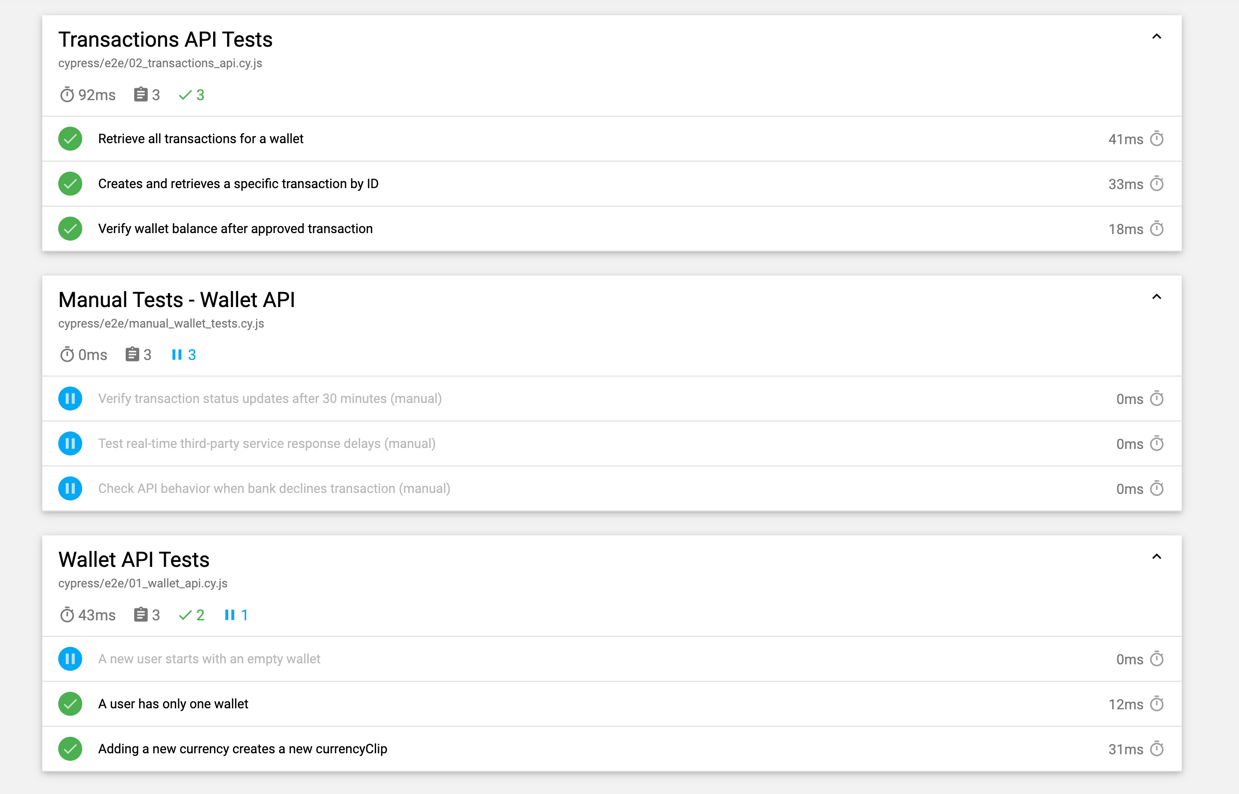
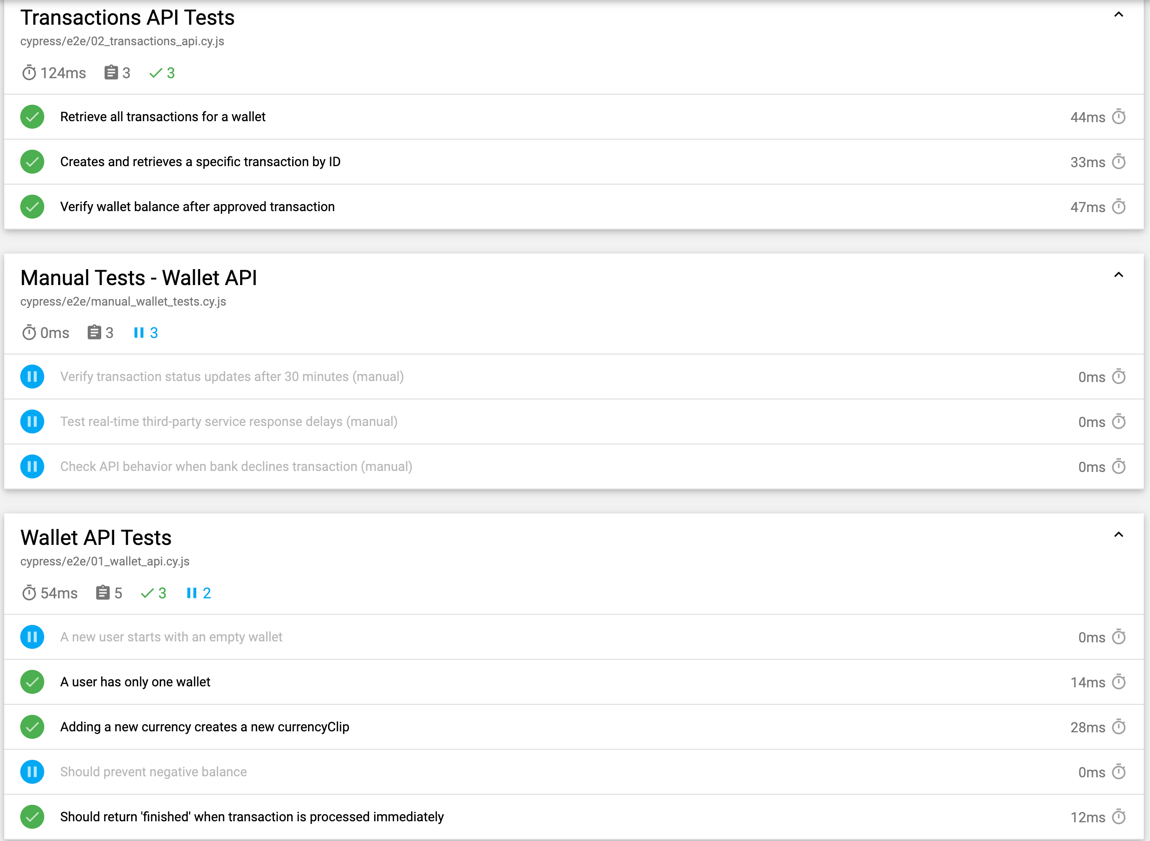
update with test plan

diff --git a/cypress/e2e/01_wallet_api.cy.js b/cypress/e2e/01_wallet_api.cy.js
@@ -3,13 +3,13 @@ describe("Wallet API Tests", () => {
     let walletId;
     let userId;
     before(() => {
-        cy.loginAs("newUser").then(({ token, userId: id }) => {
+        cy.loginAs("newUser").then(({token, userId: id}) => {
             authToken = token; // Store auth token
             userId = id;
             return cy.request({
                 method: "GET",
                 url: `/user/info/${userId}`,
-                headers: { Authorization: `Bearer ${authToken}` }
+                headers: {Authorization: `Bearer ${authToken}`}
             });
         }).then((response) => {
             expect(response.status).to.eq(200);
@@ -21,7 +21,7 @@ describe("Wallet API Tests", () => {
         cy.request({
             method: "GET",
             url: `/wallet/${walletId}`,
-            headers: { Authorization: `Bearer ${authToken}` }
+            headers: {Authorization: `Bearer ${authToken}`}
         }).then((response) => {
             expect(response.status).to.eq(200);
             expect(response.body.currencyClips).to.be.an("array");
@@ -32,7 +32,7 @@ describe("Wallet API Tests", () => {
         cy.request({
             method: "GET",
             url: `/user/info/${userId}`,
-            headers: { Authorization: `Bearer ${authToken}` }
+            headers: {Authorization: `Bearer ${authToken}`}
         }).then((response) => {
             expect(response.status).to.eq(200);
             expect(response.body.walletId).to.eq(walletId);
@@ -43,8 +43,8 @@ describe("Wallet API Tests", () => {
         cy.request({
             method: "POST",
             url: `/wallet/${walletId}/transaction`,
-            headers: { Authorization: `Bearer ${authToken}` },
-            body: { currency: "EUR", amount: 50 }
+            headers: {Authorization: `Bearer ${authToken}`},
+            body: {currency: "EUR", amount: 50}
         }).then((response) => {
             expect(response.status).to.eq(200);
             expect(response.body).to.have.property("transactionId");
@@ -57,11 +57,44 @@ describe("Wallet API Tests", () => {
         cy.request({
             method: "GET",
             url: `/wallet/${walletId}`,
-            headers: { Authorization: `Bearer ${authToken}` }
+            headers: {Authorization: `Bearer ${authToken}`}
         }).then((response) => {
             expect(response.status).to.eq(200);
             const currencies = response.body.currencyClips.map(c => c.currency);
             expect(currencies).to.include("EUR");
         });
     });
+
+    it.skip("Should prevent negative balance", () => {
+        cy.request({
+            method: "POST",
+            url: `/wallet/${walletId}/transaction`,
+            headers: {Authorization: `Bearer ${authToken}`},
+            body: {
+                amount: -500000, // More than available balance
+                currency: "EUR",
+                type: "debit",
+            },
+            failOnStatusCode: false,
+        }).then((response) => {
+            expect(response.status).to.eq(400); // Assuming API returns 400 Bad Request
+        });
+    });
+    it("Should return 'finished' when transaction is processed immediately", () => {
+        cy.request({
+            method: "POST",
+            url: `/wallet/${walletId}/transaction`,
+            headers: { Authorization: `Bearer ${authToken}` },
+            body: {
+                amount: 50,
+                currency: "EUR",
+                type: "credit",
+            },
+        }).then((response) => {
+            expect(response.status).to.eq(200);
+            expect(response.body.status).to.eq("finished");
+            expect(response.body).to.have.property("outcome").that.is.oneOf(["approved", "denied"]);
+        });
+    });
+
 });

diff --git a/README.md b/README.md
@@ -45,3 +45,49 @@ Reports will be available in the `cypress/reports` directory.
 - `cypress/fixtures/users.json` – Contains test users.
 
 ![img.png](img.png)
+
+
+## Test Plan
+
+### Implemented Test Cases
+1. **Verify new wallet**
+   - Verify that new user has one wallet.
+
+2. **Retrieve wallet balance**
+   - Ensure the balance is retrieved correctly after wallet creation.
+
+3. **Create a transaction - Immediate Processing**
+   - A transaction with sufficient balance should be processed immediately (`status: finished`).
+
+4. **Create a transaction - Pending Processing**(Skipped)*
+   - This test was intended to check if a transaction remains "pending" when an external service is slow, but it executes too quickly in the mock environment.
+
+5. **Create a transaction - Insufficient Funds** 
+   - Ensure that transactions fail if the wallet balance is too low.
+
+6. **Create a transaction - Negative Amount **(Skipped)*
+   - Intended to check rejection of negative amounts but is currently skipped.
+
+7. **Retrieve a specific transaction** 
+   - Verify that transaction details can be retrieved by ID.
+
+8. **List all transactions for a wallet** 
+   - Ensure that all transactions appear in the wallet history.
+
+9. **Add a new currency to the wallet**
+   - Validate that multiple currencies can exist in a wallet.
+
+10. **Check wallet contains both initial and new currencies**
+- Ensure a newly added currency does not remove the previous one.
+
+### Unimplemented / Future Test Cases
+1. **Concurrency Handling (Multiple Transactions at Once)**
+   - Ensure that simultaneous transactions are processed correctly without conflicts.
+
+2. **Transaction Reversal**
+   - Validate the ability to reverse a transaction and update the balance accordingly.
+
+3. **Transaction Expiry (Timeout Scenario)**
+   - Test cases for transactions that remain "pending" for too long and get canceled.
+
+---
